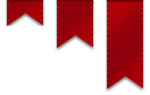
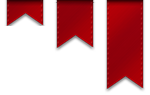
Adding graphically styled tab strip to navbar2 in Photos app, and related CSS

Changed region(s): [[0.6933, 0.0, 0.96, 0.0421], [0.3733, 0.0, 0.64, 0.0421], [0.0267, 0.0, 0.2933, 0.0421]]

diff --git a/site/Harvard-Reunion/themes/default/common/css/compliant.css b/site/Harvard-Reunion/themes/default/common/css/compliant.css
@@ -146,12 +146,22 @@ dt, .label, .legend, .legend.nonfocal, .legend h2, .legend h3, .searchlegend, .s
 	padding-right: 9px;
 }
 
+#navbar2 {
+	margin-top: -13px;
+}
+
+#category-switcher {
+	margin-top: -18px;
+}
+
 #navbar2 select, #category-switcher select {
 	background: url(/common/images/dropdown-arrow.png) no-repeat right, -webkit-gradient(linear, 0% 0%, 0% 100%, from(#b10a13), to(#870410));
 	color: #fff;  
 	border: 1px solid #bc2e37;
 	border-top: 1px solid #dc6a72;
 	border-bottom: 1px solid #930811;
+	-webkit-border-radius: 6px;
+	-moz-border-radius: 6px;
 	border-radius: 6px;
 	-webkit-box-shadow: 0px 1px 3px #3c0104;
 	-moz-box-shadow: 0px 1px 3px #3c0104;
@@ -168,6 +178,84 @@ dt, .label, .legend, .legend.nonfocal, .legend h2, .legend h3, .searchlegend, .s
 #navbar2 a#bookmark.on:before {
   content: 'Un-';
 }
+
+#navbar2 .tabstrip {
+	height: 28px;
+	line-height: 28px;
+	margin: 2px 0;
+	padding: 0;
+	background-color: #870410;
+	background: -webkit-gradient(linear, 0% 0%, 0% 100%, from(#3c0104), to(#6f0006));
+	color: #fff;  
+	width: 100%;
+	-webkit-border-radius: 6px;
+	-moz-border-radius: 6px;
+	border-radius: 6px;
+	border-bottom: 1px solid #bc2e37;
+	overflow: hidden;
+}
+
+#navbar2 .tabstrip a {
+	display: inline-block;
+	color: #f2d0d2;
+	text-decoration: none;
+	text-align: center;
+	float: left;
+}
+
+#navbar2 .tabstripDivider {
+	display: none;
+}
+
+#navbar2 .tabstrip .selected {
+	display: inline-block;
+	color: #fff;
+	text-shadow: #1b0002 0 1px 2px;
+	background-color: #fff;
+	background: -webkit-gradient(linear, 0% 0%, 0% 100%, from(#b10a13), to(#870410));
+	color: #fff;  
+	border: 1px solid #bc2e37;
+	border-top: 1px solid #dc6a72;
+	border-bottom: 1px solid #7c0007;
+	line-height: 26px;
+	float: left;
+}
+
+#navbar2 .tabstrip .selected:first-child {
+	border-top-left-radius: 6px;
+	border-bottom-left-radius: 6px;
+	border-right: 1px solid #560005;
+}
+
+#navbar2 .tabstrip a:first-child {
+	border-top-left-radius: 6px;
+	border-bottom-left-radius: 6px;
+}
+
+#navbar2 .tabstrip .selected:last-child {
+	border-top-right-radius: 6px;
+	border-bottom-right-radius: 6px;
+	border-left: 1px solid #560005;
+}
+
+#navbar2 .tabstrip a:last-child {
+	border-top-right-radius: 6px;
+	border-bottom-right-radius: 6px;
+}
+
+#navbar2 .twotabs .selected, #navbar2 .twotabs a {
+	width: 49.5%;
+}
+
+#navbar2 .threetabs .selected, #navbar2 .threetabs a {
+	width: 33%;
+}
+
+#navbar2 .fourtabs .selected, #navbar2 .fourtabs a {
+	width: 25%;
+}
+
+
 
 
 /* Footer */
@@ -354,18 +442,18 @@ a.bookmarked {
 /* Bookmarks */
 
 #bookmarkContainer {
-  width: 46px;
-  height: 95px;
-  position: absolute;
-  float: none;
-	top: -12px;
+	width: 46px;
+	height: 95px;
+	position: absolute;
+	float: none;
+	top: -14px;
 	right: 0px;  
 	margin: 0;
 	z-index: 2000;
 }
 
 .focal #bookmarkContainer {
-  right: 12px;
+  right: 8px;
 }
 
 #bookmark {
